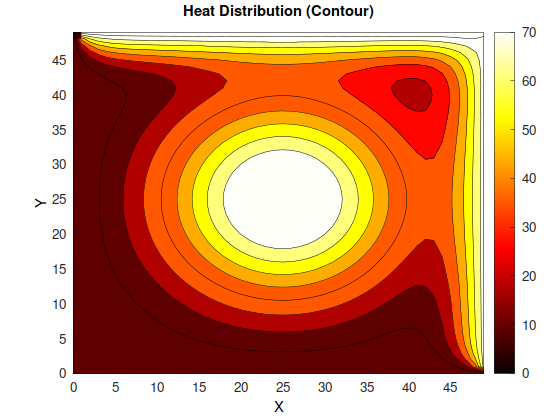
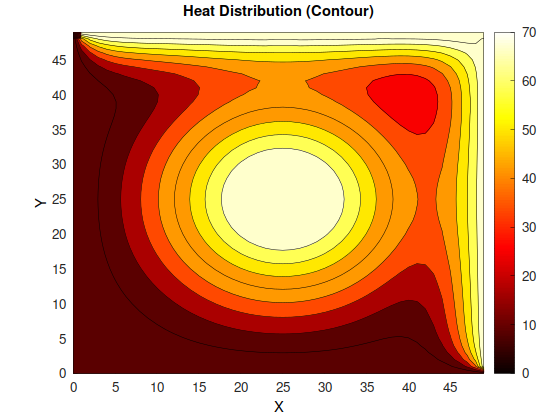
Update README

diff --git a/README.md b/README.md
@@ -2,6 +2,27 @@
 
 A collection of computational performance analysis projects focusing on algorithm optimization, parallel computing, and hardware-software interaction studies.
 
+## Final Project: 2D Laplace Heat Equation Solver
+
+**Parallel Numerical Methods for Scientific Computing**
+
+![Heat Distribution Heatmap](./final-project/images/heat_contour.png)
+
+A comprehensive implementation of the 2D Laplace heat equation solver using multiple numerical methods (Gauss-Seidel and Jacobi) with both serial and parallel approaches. This project demonstrates the practical application of HPC techniques to scientific computing problems.
+
+**Key Features:**
+- Serial and parallel Gauss-Seidel iterative solvers
+- Serial and parallel Jacobi iterative solvers
+- MPI-based distributed computing with domain decomposition
+- OpenMP multithreading for shared memory parallelism
+- Hybrid MPI+OpenMP implementations
+- Convergence analysis and performance benchmarking
+- Visualization tools for heat distribution analysis
+
+**[View Full Project →](./04-heat/)**
+
+---
+
 ## Repository Overview
 
 This repository contains multiple independent research projects exploring various aspects of high-performance computing, with emphasis on:
@@ -10,45 +31,64 @@ This repository contains multiple independent research projects exploring variou
 - **Parallel Computing Strategies**: Threading, process distribution, and scalability analysis
 - **Memory Hierarchy Optimization**: Cache efficiency, NUMA awareness, and memory access patterns
 - **Compiler Optimization Impact**: Effects of various compilation flags and strategies
+- **GPU and CUDA Programming**: Speedup capabilities and SIMT architecture exploitation
+- **SIMD Vectorization**: AVX instruction sets and vector register optimization
+- **Multithreading in Computing Kernels**: Efficient implementation and effectiveness analysis
+- **Interprocess Communication**: MPI message passing costs vs benefits
+- **Domain Decomposition**: Partitioning strategies for distributed numerical solvers
+- **Numerical Methods**: Iterative solvers and convergence analysis
+- **Scientific Visualization**: Data analysis and heatmap generation
 
-## Current Projects
+## Intro Projects
 
 
 
 ### [Project 1: High Performance Matrix Framework](./01-matrix/)
-**Matrix Multiplication Performance Analysis**
 
-Comprehensive C implementation comparing 8 different matrix multiplication algorithms including serial implementations, parallel strategies with threading, and optimized block algorithms. Features high-precision arithmetic, correctness verification, and detailed performance benchmarking.
+- Comparative analysis of 8 matrix multiplication algorithms: serial, parallel threaded, and cache-optimized blocked implementations with performance benchmarking.
 
-**Key Features:**
-- Multiple algorithm implementations (serial, parallel, blocked)
-- Cache optimization analysis
-- Thread-safe parallel processing
-- Compiler optimization studies
-- Memory-efficient operations
-- Extremely fast blocked matrix algorithms
+- **Key Features:** Serial/parallel/blocked algorithms, cache optimization, thread-safe processing, compiler optimization studies
+
+-----------------
+
+### [Project 2: SIMD Vectorization with AVX-512](./02-simd/)
+
+- AVX-512 instruction set implementation for vectorized matrix operations with cache locality optimization and vector register performance analysis.
+
+- **Key Features:** AVX-512 SIMD instructions, cache architecture analysis, register vs cache performance comparison
+
+-----------------
 
 
-### [Project 2: AVX Instruction Set Implementation, SIMD Vectorization, and Cache Properties Analysis](./02-simd/)
-**Matrix Multiplication Performance Analysis**
+### [Project 3: Multi-Core Parallelization](./03-multicore/)
 
-An implementation that seeks to improve upon standard C matrix multiplication algorithms shown in the **01-matrix** project by using the AVX-512 instruction set. I used these instructions to SIMD vectorize my matrix operations in various ways to efficiently use cache locality and fully utilize the comparative speed of registers. As a result, I did infact create algorithms that are faster than previous tries.
+- Exploring multi-core CPU performance through parallel algorithm implementations and thread scaling analysis.
 
-**Key Features:**
-- AVX-512 Intel instruction set
-- Cache architecture analysis
-- Algorithm benchmarking
-- Cache vs Single Instruction Multiple Data (SIMD) vector register perfromance analysis
+- **Key Features:** Thread pool management, core affinity optimization, scalability benchmarking, NUMA-aware design
+
+
+-----------------
+
+
+### [Project 4: GPU Computing with CUDA](./04-cuda/)
+
+- GPU acceleration using CUDA for compute-intensive algorithms, demonstrating SIMT architecture and massive parallelism.
+
+- **Key Features:** CUDA kernel development, memory coalescing, shared memory optimization, GPU vs CPU performance analysis
+
+
+-----------------
+
+
+### [Project 5: Distributed Computing with MPI](./05-mpi/)
+
+- Message Passing Interface implementation for distributed memory systems with process-based parallelization strategies.
+
+- **Key Features:** Point-to-point and collective communication, domain decomposition, load balancing, network performance analysis
 
 ## Getting Started
 
 Each subproject contains its own build system and documentation. Navigate to individual project directories for specific instructions.
-
-### Prerequisites
-- CMake 3.22.1 or higher
-- GCC with modern C standard support
-- pthread library
-- (Optional) Valgrind for memory analysis
 
 ## Research Applications
 
@@ -58,41 +98,6 @@ This repository supports research in:
 - **Parallel Computing Education**: Demonstrating threading concepts and trade-offs
 - **Systems Programming**: Low-level optimization techniques and memory management
 - **Academic Benchmarking**: Standardized performance comparison methodologies
-
-## Future Subprojects
-
-Additional projects planned for this repository include:
-
-- **GPU Computing Studies**: CUDA/OpenCL performance analysis
-- **Network Computing**: MPI and distributed algorithm implementations
-- **Memory Management**: Custom allocator performance comparison
-- **SIMD Optimization**: Vectorization strategy analysis
-
-## Repository Structure
-
-```
-Directed-Research-HPC/
-├── 01-matrix/           # Matrix multiplication performance study
-│   ├── build/            # Build artifacts
-│   ├── include/          # Header files
-│   ├── scripts/          # Build and run automation
-│   ├── src/              # Source implementations
-│   ├── test/             # Test drivers and validation
-│   └── README.md         # Detailed project documentation
-├── 02-simd/             # SIMD vectorization with AVX-512
-│   ├── build/            # Build artifacts
-│   ├── scripts/          # Build and run automation
-│   ├── src/              # Source implementations
-│   ├── test/             # Test drivers and validation
-│   └── README.md         # Detailed project documentation
-├── 03-multicore/        # Multi-core parallelization study
-│   ├── build/            # Build artifacts
-│   ├── scripts/          # Build and run automation
-│   ├── src/              # Source implementations
-│   ├── test/             # Test drivers and validation
-│   └── README.md         # Detailed project documentation
-└── README.md            # This file
-```
 
 ## Contributing
 
